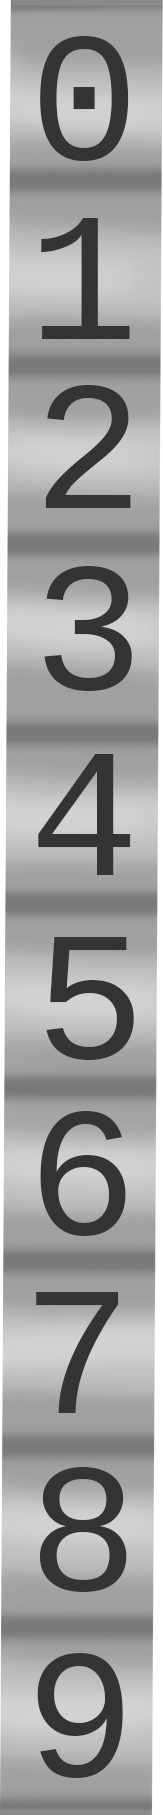
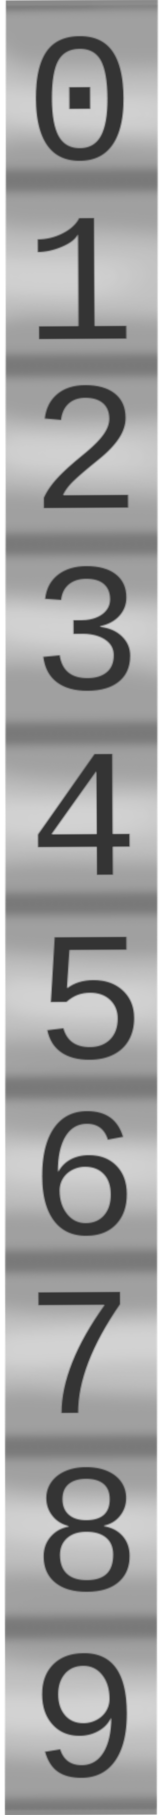
Straighten the digits

diff --git a/src/entities/padlock.js b/src/entities/padlock.js
@@ -11,7 +11,7 @@ export default class Padlock extends Phaser.GameObjects.Container {
 		this.sprite.scale = 0.1;
 		this.add(this.sprite);
 
-		this.digits = [new PadlockDigit(this, -28, 38), new PadlockDigit(this, -1, 38), new PadlockDigit(this, 26, 38)];
+		this.digits = [new PadlockDigit(this, -27, 38), new PadlockDigit(this, -1, 38), new PadlockDigit(this, 26, 38)];
 
 		for (const digit of this.digits) {
 			this.add(digit);
